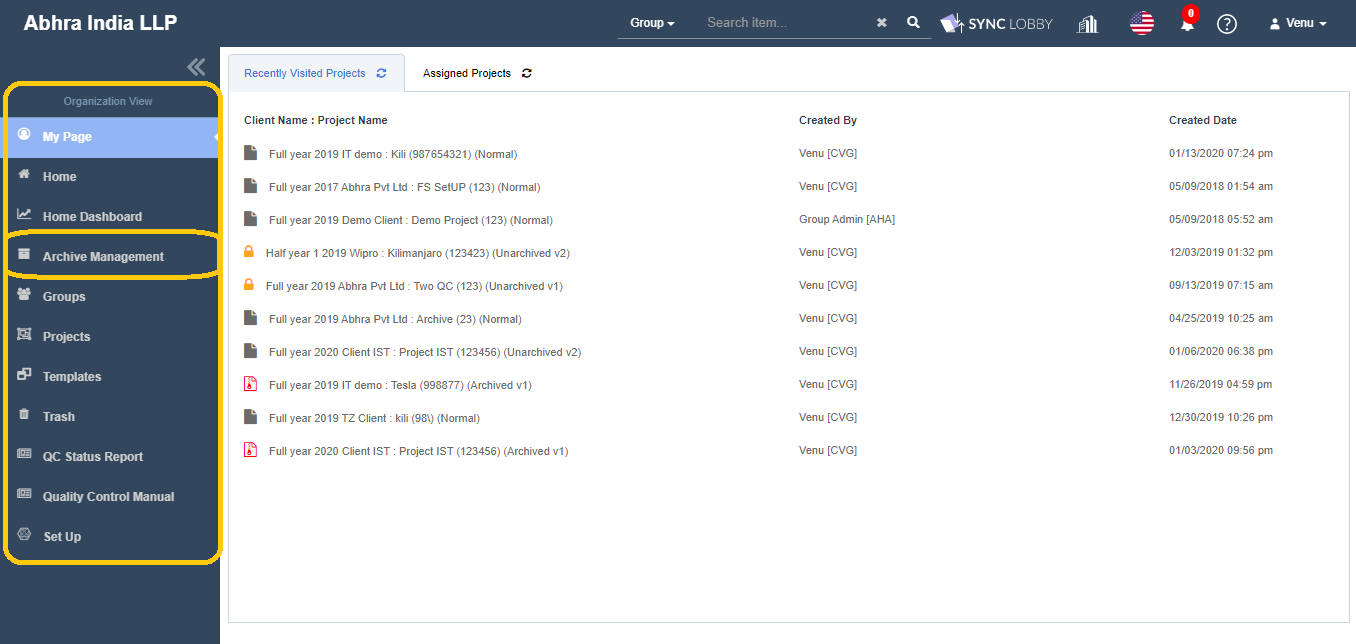
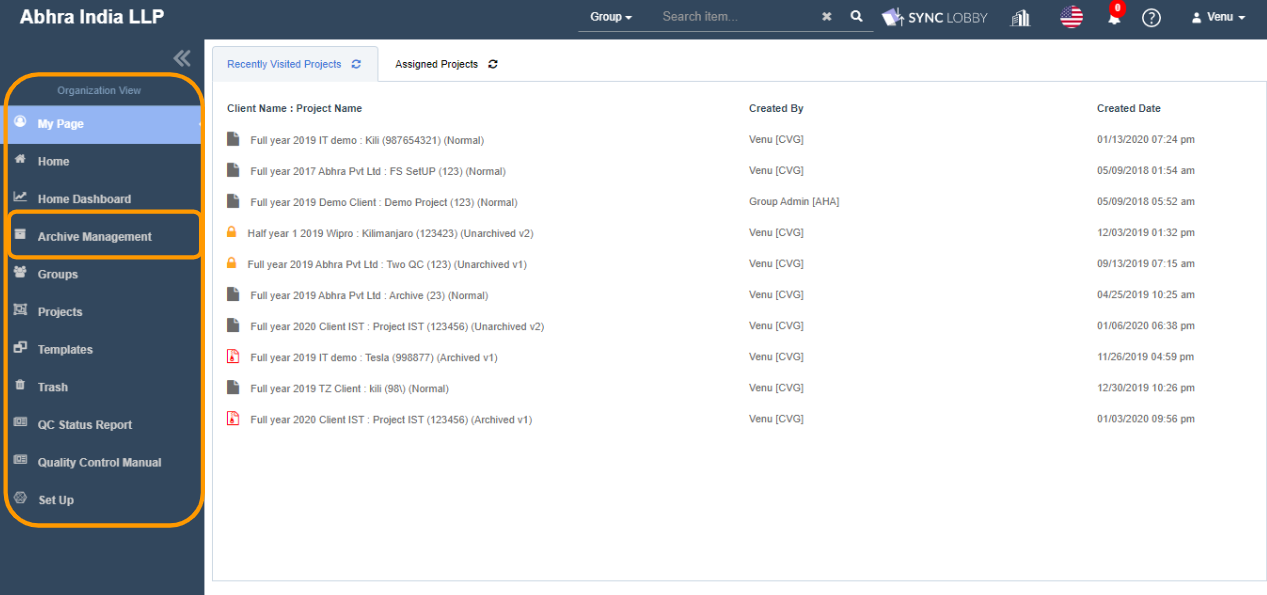
GitBook: [master] one page and 3 assets modified

diff --git a/undefined-2/guide-by-function/organization-access-right.md b/undefined-2/guide-by-function/organization-access-right.md
@@ -42,7 +42,7 @@ There are three access rights in Internal Users named Super Admin \(SA\), Group 
 
 ### 2.1. Super Admin \(SA\)
 
-![Organization View&apos;s left navigation menu options to Super Admin](../../.gitbook/assets/sa%20%281%29.png)
+![Organization View&apos;s left navigation menu options to Super Admin](../../.gitbook/assets/sa%20%282%29.png)
 
 ![Organization View&apos;s left navigation menu options to Super Admin with Archive Manager permission](../../.gitbook/assets/sa-am.png)
 
